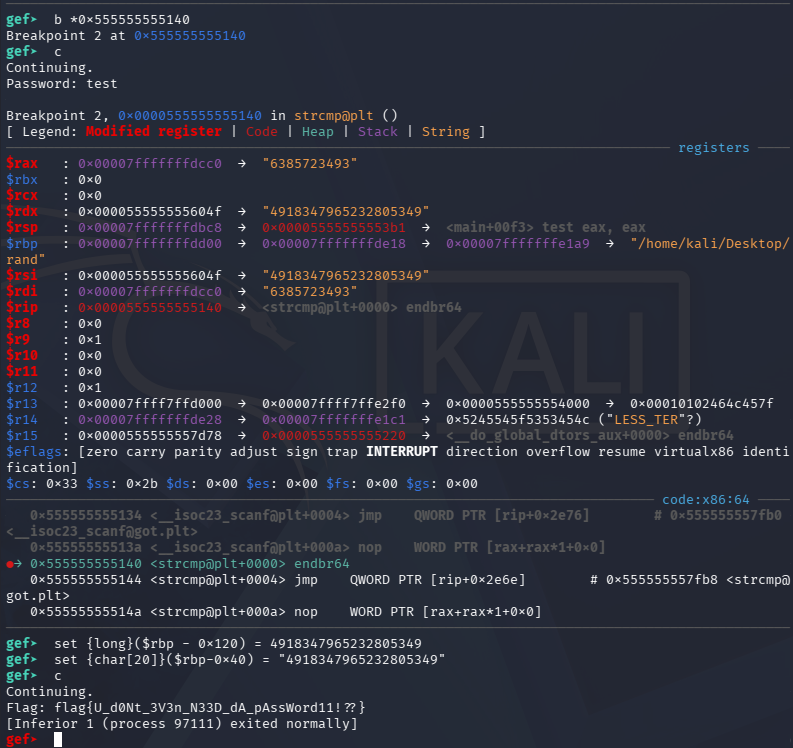
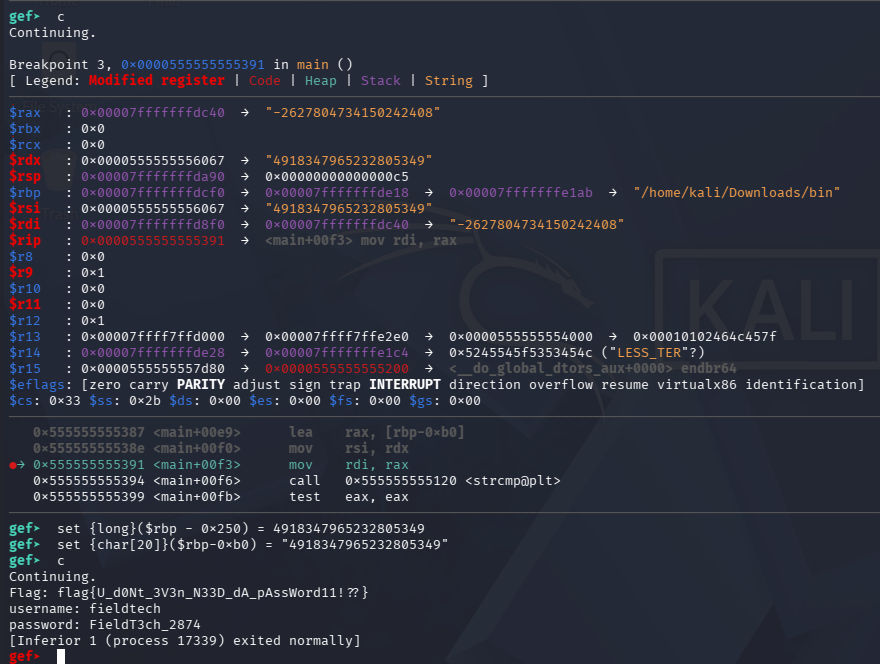
Rewrote rbp manipulation write-up

Changed region(s): [[0.0, 0.0, 0.9987, 1.0], [0.8172, 0.6627, 0.9987, 0.6928], [0.8474, 0.1807, 0.9382, 0.2108]]

diff --git a/Vulnerabilities/Path 3/RE/README.md b/Vulnerabilities/Path 3/RE/README.md
@@ -1,73 +1,74 @@
-This vulnerability is solved using `gef`. To begin, the program must be called using `gef ./rand`. However, trying to run the program at all leads to an error - the program uses the `ptrace()` function to exit immediately if a debugger is detected which is a common strategy used by programs. \
-![run](images/run.png)
+Looking at the output of the maintenance file, we can see that it says `ota-firmware::http://ROUTER-HOST:8081/fw/1edca15d3306/acc-rtr01-fw.elf`. This seems to indicate that some sort of firmware is stored at `http://ROUTER-HOST:8081/fw/1edca15d3306/acc-rtr01-fw.elf`, which we can download onto our host using `wget http://localhost:8081/fw/1edca15d3306/acc-rtr01-fw.elf`. \
+![wget](images/wget.png)
 
-The program can still be disassembled using `disas main` to inspect what it does. This is where the `ptrace` call in the program can be found. \
-![ptrace](images/ptrace.png)
+Before we do anything, the binary will be renamed to `bin` so that it is easier to interact with in the shell. \
+![rename](images/rename.png)
 
-If the binary's properties are checked using `file rand`, an observer may notice that the binary is dynamically linked using the system's libraries at runtime. This can be confirmed by looking at the output of a statically linked binary, which explicitly says that. \
-![dll](images/dll.png)
+Now that we have the binary on our system, we can inspect it to see what it does. We can see what it does by calling `./bin` after making sure it is executable with `chmod +x bin`. \
+![bin](images/bin.png)
 
-Although this makes the binary smaller since it doesn't have to include any system functions, it becomes vulnerable to an `LD_PRELOAD` attack. `LD_PRELOAD` is an environment variable which is used to find shared libraries for system functions. This can be exploited by writing a custom `ptrace` library routine that always returns 0 to bypass this debug check entirely. This is a simple C script that defines the `ptrace` function, such as the following:
+The program is asking us for some sort of password, which we obviously don't have. However, we should see what it does given input anyway since that could guide us to what we have to do. \
+![test](images/test.png)
+
+After trying a random password, the program literally returns nothing. We can try to check any embedded strings in the program using `strings bin`, which may contain the password for the binary in plaintext. \
+![strings](images/strings.png)
+
+The strings seem to primarily be referencing functions, but there are some notable strings that can be seen in the binary. There's the password entry text, a random string of numbers (`4918347965232805349`), and a piece of string that seems to imply that the flag is printed somewhere (but likely obfuscated in some form). The string of numbers is interesting, and could be the password so we can try it and see what happens. \
+![failed](images/failed_password.png)
+
+This has also caused nothing to happen, so we need to investigate something else. We can also inspect the properties of the binary using `file bin`, which may have something that can be exploited. \
+![file](images/file.png)
+
+This appears to be a fairly standard binary. However, it is dynamically linked meaning that libraries are loaded at runtime instead of at compile time. This means it could potentially be vulnerable to an `LD_PRELOAD` attack, but we have to find a function that can be bypassed to actually exploit this. It is also stripped, meaning that we may be able to view function names through a debugger. Since we have access to the binary on our local machine, we can attach it to a debugger (like `gef`) to see how it works internally and identify any functions which could be bypassed using this method. \
+![debugger](images/debugger.png)
+
+After attempting to run it with the debugger, it leads to an error. It is likely using some anti-debugger technique to prevent it being run in debuggers, which we can check using `disas main`. \
+![disas_main](images/disas_main.png)
+
+This disassembly has shown a `ptrace` function call, which is commonly used to prevent programs being debugged. By taking advantage of the fact that this binary is dynamically linked, we can write a custom implementation of this function that allows us to bypass this check entirely. All this needs to do is return 0, and can be written like the following:
 ```c
 long ptrace(int request, int pid, void *addr, void *data) {
     return 0;
 }
 ```
+To make this available as a shared library, it can be compiled as `gcc -shared ptrace.c -o ptrace.so`. \
+![shared](images/shared.png)
 
-To make this available as a shared library, it can be compiled as `gcc -shared ptrace.c -o ptrace.so`. This can then be put into the environment in `gef` using `set environment LD_PRELOAD=./ptrace.so`, which will cause any `ptrace()` call to use this function instead. \
+Now that the library has been compiled, we can load it when we start running the program. This can be put into the environment using `set environment LD_PRELOAD=./ptrace.so`, which will cause any `ptrace()` call to use this function instead. \
 ![bypass](images/bypass.png)
 
-Now that we are into the program, we can actually investigate it. It seems to be asking for a password, but we don't know what the password is so we'll have to look elsewhere. The first place to investigate would be any embedded strings in the program, which can be dumped using `strings rand`. \
-![strings](images/strings.png)
-
-There are several notable strings that can be found in the program. There's the debugger string seen earlier, the password entry text, a random string of numbers (`4918347965232805349`), and a piece of string that seems to imply that the flag is printed somewhere (but likely obfuscated in some form). The string of numbers is interesting, and could be the password so we can try it and see what happens. \
-![failed](images/failed_password.png)
-
-This has caused nothing to happen, so some more investigation is necessary. As identified earlier, the binary isn't stripped so we could take a look at what functions the binary includes. \
+Now that we have access to the program, we can investigate it further. We still don't know what the password is, so we need to find some further information. As we know the binary isn't stripped, we can have a look at some of the functions the binary includes. \
 ![functions](images/functions.png)
 
-These are all C and system functions, with the exceptions of `main` and `hash`. `main` isn't interesting since all standlone C binaries will include one, but `hash` is interesting and could indicate that the password is hashed and perhaps that's what the random string of numbers was. We don't expect `hash` to contain any useful information since it just sounds like a hashing function, so exploring `main` again will be the next step. Just to make it easier, this will be done using Ghidra. \
+These are all C and system functions, with the exceptions of `main` and `hash`. `main` isn't interesting since all standlone C binaries will include one, but `hash` is interesting and likely indicates that the password is hashed before being checked. We don't expect `hash` to contain any useful information since it just sounds like a hashing function, so exploring `main` again will be the next step. Just to make it easier, this will be done using Ghidra. \
 ![decompiled](images/decompiled_main.png)
 
 This decompilation of `main` produced by Ghidra has a few points of interest:
-- The `ptrace` call definitely terminates if it succeeds
+- The `ptrace` call terminates program execution if it succeeds
 - The input is hashed and passed as a string
-- The hash is compared to `4918347965232805349`
+- The hash is compared to `4918347965232805349` (which is the string identified earlier)
 To make viewing this decompilation easier, the variables can be renamed. \
 ![clean](images/decompiled_main_clean.png)
 
-After cleaning up the decompilation, it seems like the hash value is used to seed a random number generator. However, to enter this branch the first thing we need to do is find a password that hashes to the value `4918347965232805349`. This could be brute forced, but this will take a long time. Instead, we can use `gef` to insert this value into memory just before the string comparison to enter the branch. This requires looking at the assembly to find out where the password input is stored in memory so we can adjust its value. \
+After cleaning up the decompilation, it seems like the hash value is used to seed a random number generator using `srand`. To confirm this, we need toenter this branch which we can do by finding a password that hashes to the value `4918347965232805349`. Although this could be brute forced, this will take a long time; instead, we can use `gef` to insert this value into memory just before the string comparison to enter this branch. This requires looking at the 
+disassembled `main` function identify where the password input is stored in memory so we can adjust its value directly. \
 ![scanf](images/gef_scanf.png)
 
 At various points, there are a few addresses that have data being transferred into them:
-- `rbp - 0xf`
-- `rbp - 0x120`
-- `rbp - 0x40`
-- `rbp - 0x118`
-The one that sticks out the most is in the instructions before the `hash` function is called. The `lea` instruction is used to move the memory held in `rbp - 0x40` to the `rax` register. This is then moved to the `rdi` register, which is where the first argument for functions is stored. As the `hash` function is called directly afterwards, this seems like the perfect candidate for where password input is stored. To confirm this, a breakpoint can be placed just before the `hash` function (using `b *0x1239`) and the `rdi` register inspected. \
+- `rbp - 0xb0`
+- `rbp - 0x250`
+- `rbp - 0x248`
+
+The one that sticks out the most is in the instructions before the `hash` function is called. The `lea` instruction is used to move the memory held in `rbp - 0xb0` to the `rax` register. This is then moved to the `rdi` register, which is where the first argument for functions is stored. As the `hash` function is called directly afterwards, this seems like the perfect candidate for where password input is stored. To confirm this, a breakpoint can be placed just before the `hash` function (using `b *0x555555555249`) and the `rdi` register inspected. \
 ![rdi](images/rdi.png)
 
-As expected, the `rdi` register (and `rax` register) contains the input password. Therefore, the input password is contained at `rbp - 0x40`. We can utilise this fact to force this memory to be the hash value, bypassing the need to find the password entirely. This can be done by setting a breakpoint at the `strcmp` instruction, changing the value of `rbp - 0x40` (using `set {char[20]}($rbp-0x40)`) to the "correct" hash value, and then continuing function execution. \
-![rbp](images/rbp-0x40.png)
+As expected, the `rdi` register (and `rax` register) contains the input password. Therefore, the input password is contained at `rbp - 0xb0`. We can utilise this fact to force this memory to be the hash value, bypassing the need to find the password entirely. This can be done by setting a breakpoint at the `strcmp` instruction (using `b *0x0000555555555391`), changing the value of `rbp - 0xb0` to the "correct" hash value using `set {char[20]}($rbp-0xb0) = "4918347965232805349"`, and then continuing function execution. \
+![rbp](images/rbp-0xb0.png)
 
-As shown, this has actually allowed program execution to continue within the branch. However, the output does not look as expected. This probably has something to do with the random seed identified earlier, which was identified earlier to use the hashed value. Since changing the value at `rbp-0x40` only changed the string representation, we also need to change the value of the hash value itself. In the earlier disassembled code, `rbp-0x120` seems like a good candidate since that is the value accessed directly after the `hash` function returns so we can inspect that. \
-![rbp](images/rbp-0x120.png)
+As shown, this has actually allowed program execution to continue within the branch but the output does not look as expected. This probably has something to do with the random seed identified earlier, which uses the hashed value as the seed. Since changing the value at `rbp-0xb0` only changed the string representation, we also need to change the value of the hash value itself. In the earlier disassembled code, `rbp-0x250` seems like a good candidate since that is the value accessed directly after the `hash` function returns so we can inspect that. \
+![rbp](images/rbp-0x250.png)
 
-As shown, the address at `rbp - 0x120` holds the exact same value (in decimal) as `rdi` (which, in this case, is the string representation of the hash of the password input). As such, it can be changed using `set {long}($rbp - 0x120)` to ensure that both `rbp - 0x120` and `rbp - 0x40` hold the same value. If both of these are changed and the program execution continues, the following results: \
+As shown, the address at `rbp - 0x250` holds the exact same value (in decimal) as `rdi` which, in this case, is the string representation of the hash of the password input. As such, it can be changed using `set {long}($rbp - 0x250) = 4918347965232805349` to ensure that both `rbp - 0x250` and `rbp - 0xb0` hold the same value. If both of these are changed and the program execution continues, the following results: \
 ![finish](images/finish.png)
 
-This has revealed the flag, which is now visible in plaintext. As such, the program has successfully been reversed engineered.
-
-For clarity, the following commands need to be run in order to achieve this:
-```
-gef ./rand
-set environment LD_PRELOAD=./ptrace.so
-b main
-r
-disas main
-b *0x555555555140
-c
-set {char[20]}($rbp-0x40) = "4918347965232805349"
-set {long}($rbp-0x120) = 4918347965232805349
-c
-```
+This has revealed the flag, which is `flag{U_d0Nt_3V3n_N33D_dA_pAssWord11!??}`. Some credentials have also been revealed, which will be required to complete the next challenge.
